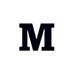
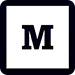
added two hover contact options, update graphics

diff --git a/index.html b/index.html
@@ -122,40 +122,45 @@
 
     <div id="contact" class="container">
       <h1>Contact</h1>
-        <a href="hello@tiffanyqi.com"><div id="social-mail"></div></a>
-        
-<!--           <img id="social-mail" 
-            src="assets/img/social-mail.jpg"
-              class="box-social">
-          <img id="social-mail-hover"
-            src="assets/img/social-mail-hover.jpg"
-              class="box-social-hover"> -->
-        
+
+        <!-- Jquery hovers -->
+
+        <a href="mailto:hello@tiffanyqi.com">
+          <img id="social-mail" class="box-social" src="assets/img/social-mail.jpg"></a>
+
         <a href="http://www.linkedin.com/in/tiffanyqi">
-          <img id="social-linked"
-            src="assets/img/social-linked.jpg"
-              class="box-social">
-        </a>
+          <img id="social-linked" class="box-social" src="assets/img/social-linked.jpg"></a>
+      
         <a href="http://www.github.com/tiffanyqi">
-          <img id="social-git"
-            src="assets/img/social-git.jpg"
-              class="box-social">
-        </a>
+          <img id="social-git" class="box-social" src="assets/img/social-git.jpg"></a>
+
         <a href="http://sabakuwood.deviantart.com">
-          <img id="social-deviant"
-            src="assets/img/social-deviant.jpg"
-              class="box-social">
-        </a>
+          <img id="social-deviant" class="box-social" src="assets/img/social-deviant.jpg"></a>
+
         <a href="http://medium.com/@tiffanyqi">
-          <img id="social-medium"
-            src="assets/img/social-medium.jpg"
-              class="box-social">
-        </a>
+          <img id="social-medium" class="box-social" src="assets/img/social-medium.jpg"></a>
+
         <a href="http://www.youtube.com/user/sabakuxsae/featured">
-          <img id="social-youtube"
-            src="assets/img/social-youtube.jpg"
-              class="box-social">
-        </a>
+          <img id="social-youtube" class="box-social" src="assets/img/social-youtube.jpg"></a>
+
+        <br>
+
+        <!-- CSS hovers -->
+
+        <a href="mailto:hello@tiffanyqi.com">
+          <div id="social-mail" class="box-social"></div></a> 
+        <a href="http://www.linkedin.com/in/tiffanyqi">
+          <div id="social-linked" class="box-social"></div></a>
+        <a href="http://www.github.com/tiffanyqi">
+          <div id="social-git" class="box-social"></div></a>
+        <a href="http://sabakuwood.deviantart.com">
+          <div id="social-deviant" class="box-social"></div></a>
+        <a href="http://medium.com/@tiffanyqi">
+          <div id="social-medium" class="box-social"></div></a>
+        <a href="http://www.youtube.com/user/sabakuxsae/featured">
+          <div id="social-youtube" class="box-social"></div></a>
+
+       
     </div>
 
   </body>

diff --git a/assets/main.css b/assets/main.css
@@ -102,10 +102,13 @@
 #contact.container {
     padding: 50 0 100 0;
     text-align: center;
-    display: inline-block;
 }
 #contact h1 {
     text-shadow: 1px 1px #4a484b;
+}
+.box-social {
+    display: inline-block;
+    opacity: 0.4;
 }
 #social-mail {
     height: 75px;
@@ -117,6 +120,66 @@
     height: 75px;
     width: 75px;
     background: url("img/social-mail-hover.jpg");
+    transition: 0.5s;
+}
+#social-linked {
+    height: 75px;
+    width: 75px;
+    background: url("img/social-linked.jpg");
+    transition: 0.5s;
+}
+#social-linked:hover {
+    height: 75px;
+    width: 75px;
+    background: url("img/social-linked-hover.jpg");
+    transition: 0.5s;
+}
+#social-git {
+    height: 75px;
+    width: 75px;
+    background: url("img/social-git.jpg");
+    transition: 0.5s;
+}
+#social-git:hover {
+    height: 75px;
+    width: 75px;
+    background: url("img/social-git-hover.jpg");
+    transition: 0.5s;
+}
+#social-deviant {
+    height: 75px;
+    width: 75px;
+    background: url("img/social-deviant.jpg");
+    transition: 0.5s;
+}
+#social-deviant:hover {
+    height: 75px;
+    width: 75px;
+    background: url("img/social-deviant-hover.jpg");
+    transition: 0.5s;
+}
+#social-medium {
+    height: 75px;
+    width: 75px;
+    background: url("img/social-medium.jpg");
+    transition: 0.5s;
+}
+#social-medium:hover {
+    height: 75px;
+    width: 75px;
+    background: url("img/social-medium-hover.jpg");
+    transition: 0.5s;
+}
+#social-youtube {
+    height: 75px;
+    width: 75px;
+    background: url("img/social-youtube.jpg");
+    transition: 0.5s;
+}
+#social-youtube:hover {
+    height: 75px;
+    width: 75px;
+    background: url("img/social-youtube-hover.jpg");
     transition: 0.5s;
 }
 
@@ -158,6 +221,9 @@ a:hover {
 td {
     vertical-align: top;
     line-height: 1.5;
+}
+.transition {
+    transition: 0.5s;
 }
 
 footer {

diff --git a/assets/script.js b/assets/script.js
@@ -8,31 +8,23 @@ $(document).ready(function() {
         });
     });
 
-    // Social Media Icon Hovers
-    $(".box-social").mouseover(function() {
-        var icon = this.hash.split(-)[1];
-        var image = "background: url('img/social-" + icon + "-hover.jpg'); ";
-        var speed = "transition: 0.5s;";
-        var imageAnimation = image + speed;
-        $(this.hash).css(imageAnimation);
+    // Social Media Icon Hovers-Color
+    // $(".box-social").hover(
+    //     function() {
+    //         this.src = "assets/img/" + this.id + "-hover.jpg"; 
+    //     }, function() {
+    //         this.src = "assets/img/" + this.id + ".jpg";
+    //     });
 
-        var hover = this + "-hover";
-        $(hover.hash).css(speed);
-        )};
+    // Social Media Icon Hovers-Opacity
+    $(".box-social").hover(
+        function() {
+            $(this).stop().fadeTo("slow", 1);
+        }, function() {
+            $(this).stop().fadeTo("slow", 0.4);
+    });
 });
 
 
 
 
-// #social-mail {
-//     height: 75px;
-//     width: 75px;
-//     background: url("img/social-mail.jpg");
-//     transition: 0.5s;
-// }
-// #social-mail:hover {
-//     height: 75px;
-//     width: 75px;
-//     background: url("img/social-mail-hover.jpg");
-//     transition: 0.5s;
-// }
